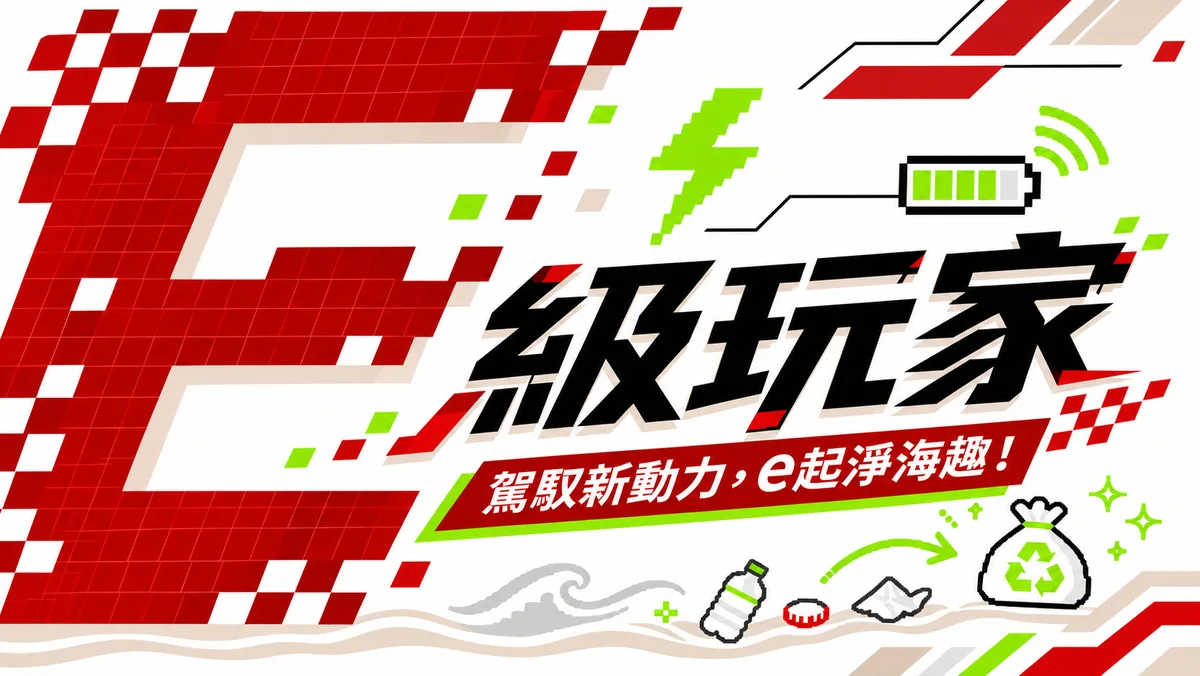
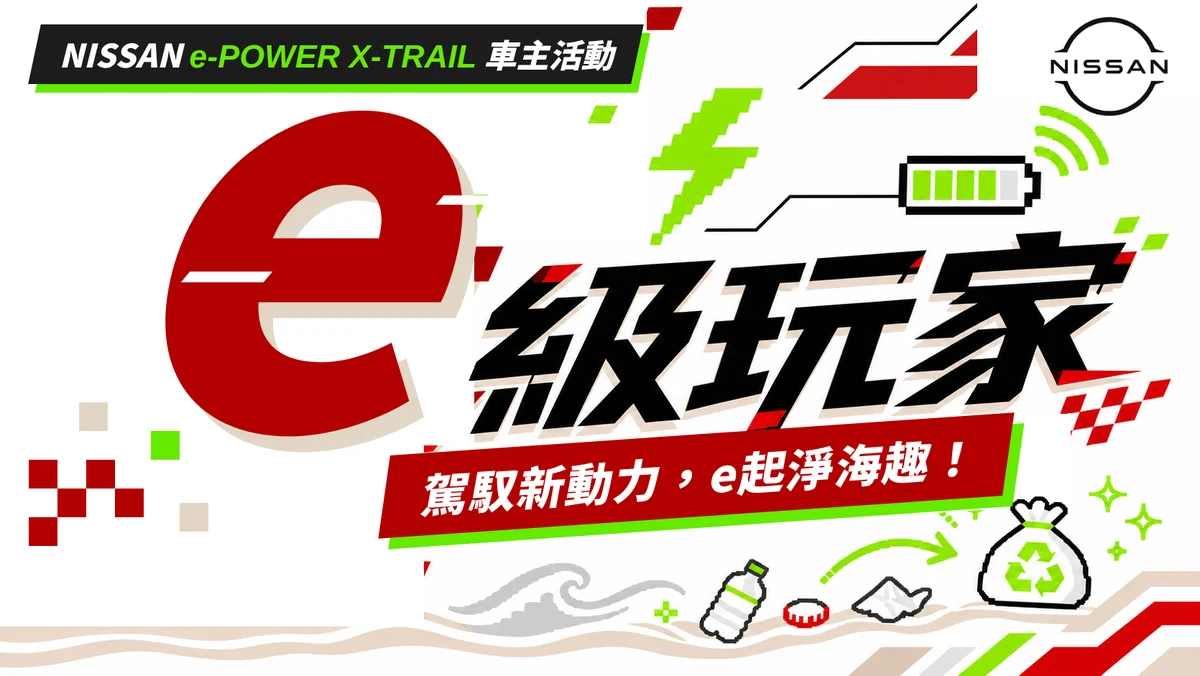
Add files via upload

diff --git a/assets/app.js b/assets/app.js
@@ -1,11 +1,11 @@
 /* =========================================================
- *  NISSAN E級玩家｜主程式（單一入口）
+ *  NISSAN e級玩家｜主程式（單一入口）
  *  流程：首頁 → 任務相機（依序找紅→黃→綠）→ 判定 → 充電完成動畫 → 濾鏡相機 → 預覽
  * ========================================================= */
 (function () {
   'use strict';
 
-  var APP_VERSION = '2026.11.21-再玩一次';  // 程式版本（測試模式左下角會顯示）
+  var APP_VERSION = '2026.11.23-新主視覺';  // 程式版本（測試模式左下角會顯示）
   var CFG = window.EPLAYER_CONFIG;
   var ORDER = CFG.MISSION_ORDER;   // 依序要找的顏色，例如 ['red','yellow','green']
   var COLORS = CFG.COLORS;
@@ -81,7 +81,7 @@
   app.innerHTML =
     /* ---------- 首頁 ---------- */
     '<section id="s-home" class="screen"><div class="wrap">' +
-      '<div class="kv-wrap"><img class="kv" src="assets/kv.webp" alt="NISSAN E級玩家｜' + CFG.EVENT_SLOGAN + '"></div>' +
+      '<div class="kv-wrap"><img class="kv" src="assets/kv.webp" alt="NISSAN e級玩家｜' + CFG.EVENT_SLOGAN + '"></div>' +
       '<div class="home-body">' +
         '<div class="team-badge"><div class="team-badge__icon">' + badgeIcon + '</div>' +
           '<div class="team-badge__text"><div class="team-badge__en">MISSION · ' + N + ' COLORS</div>' +

diff --git a/staff.html b/staff.html
@@ -5,7 +5,7 @@
 <meta name="viewport" content="width=device-width, initial-scale=1">
 <meta name="robots" content="noindex">
 <script>document.write('<link rel="stylesheet" href="assets/app.css?v=' + Math.floor(Date.now() / 60000) + '">');</script>
-<title>E級玩家｜工作人員入口</title>
+<title>e級玩家｜工作人員入口</title>
 <style>
   body { -webkit-user-select: text; user-select: text; }
   .box { max-width: 460px; margin: 0 auto; padding: 30px 20px 60px; }
@@ -21,7 +21,7 @@
 <body>
 <div class="box">
   <img src="assets/nissan-logo.png" alt="NISSAN" style="width:70px">
-  <h1>E級玩家｜工作人員入口</h1>
+  <h1>e級玩家｜工作人員入口</h1>
   <p>這一頁不用給參加者。參加者掃活動 QR code 會直接進入遊戲。</p>
   <div class="stack">
     <a class="pbtn pbtn--black" href="qrcodes.html">🖨 活動 QR code（列印）</a>

diff --git a/red.html b/red.html
@@ -2,10 +2,10 @@
 <html lang="zh-Hant">
 <head>
 <meta charset="utf-8">
-<title>E級玩家</title>
+<title>e級玩家</title>
 <!-- 舊的分隊網址：自動轉到新的單一入口（保留網址後面的參數） -->
 <script>location.replace('./' + location.search);</script>
 <meta http-equiv="refresh" content="0; url=./">
 </head>
-<body><a href="./">前往 E級玩家</a></body>
+<body><a href="./">前往 e級玩家</a></body>
 </html>

diff --git a/yellow.html b/yellow.html
@@ -2,10 +2,10 @@
 <html lang="zh-Hant">
 <head>
 <meta charset="utf-8">
-<title>E級玩家</title>
+<title>e級玩家</title>
 <!-- 舊的分隊網址：自動轉到新的單一入口（保留網址後面的參數） -->
 <script>location.replace('./' + location.search);</script>
 <meta http-equiv="refresh" content="0; url=./">
 </head>
-<body><a href="./">前往 E級玩家</a></body>
+<body><a href="./">前往 e級玩家</a></body>
 </html>

diff --git a/assets/app.css b/assets/app.css
@@ -73,7 +73,7 @@ img, svg { display: block; }
 .stripes--bl i:nth-child(3) { bottom: 48px; left: 10px; width: 60px; height: 4px; background: var(--black); }
 
 /* ---------- 首頁 ---------- */
-.kv { width: 100%; height: auto; aspect-ratio: 1671 / 941; background: #fff; }
+.kv { width: 100%; height: auto; aspect-ratio: 1670 / 941; background: #fff; }
 .home-body { padding: 6px 20px 0; }
 
 .team-badge {
